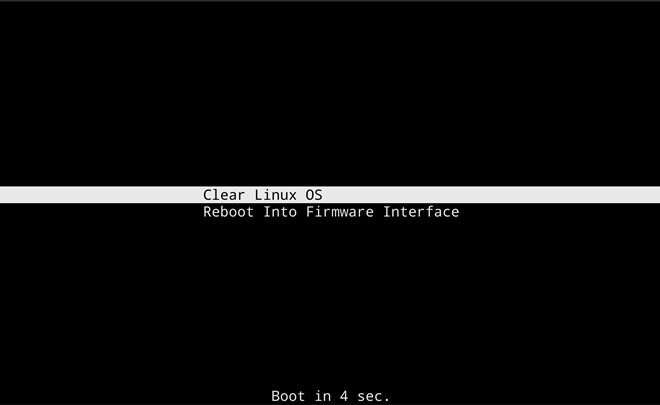
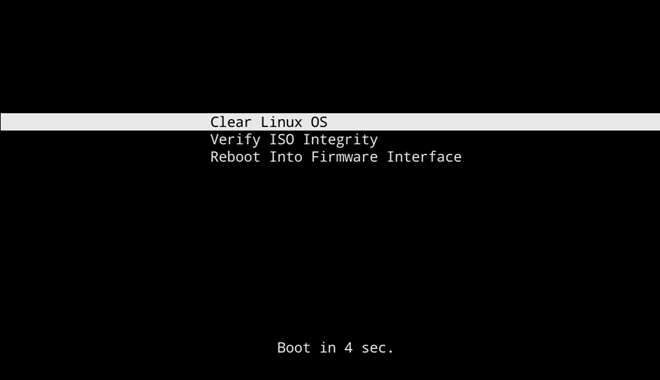
Align bare-metal-install-* docs with clr-installer verify-iso-integrity (#1186)
* Align bare-metal-install-* docs with clr-installer verify-iso-integrity

- New clr-installer feature, uses checksum to verify ISO image
- See also: https://github.com/clearlinux/clr-installer/pull/737
- Closes #1185
- Adds new section, Choose boot menu option.
- Figure 01 revised in bare-metal-desktop and -server
- Changes hierarchical levels of headers for consistency.
- Removes Software(optional) section from bare-metal-install-desktop
- Latter section is not relevant to installation process; no value
- Respond to reviewer feedback on wording.

* Wording revisions per reviewer feedback.

Changed region(s): [[0.0, 0.2895, 1.0, 0.55], [0.3939, 0.9553, 0.5758, 1.0], [0.4242, 0.8974, 0.6061, 0.9263]]

diff --git a/source/get-started/bare-metal-install-desktop.rst b/source/get-started/bare-metal-install-desktop.rst
@@ -37,6 +37,7 @@ Preliminary steps
 #. Follow your OS instructions to
    :ref:`create a bootable usb drive <bootable-usb>`.
 
+
 .. _install-on-target-start:
 
 Install from live image
@@ -61,28 +62,44 @@ these steps.
 
 .. _preliminary-steps-install-desktop-end:
 
-#. Select :guilabel:`Clear Linux OS` in the boot menu, shown in Figure 1.
+Choose boot menu option
+=======================
 
-   .. figure:: /_figures/bare-metal-install-desktop/bare-metal-install-desktop-01.png
-      :scale: 100%
-      :alt: Clear Linux OS in boot menu
+#. Choose one of the options shown in Figure 1.
 
-      Figure 1: Clear Linux OS in boot menu
+   a. Follow `Verify integrity of installer media (optional)`_.
+
+   #. Select :guilabel:`Clear Linux OS` in the boot menu.
+
+      .. figure:: /_figures/bare-metal-install-desktop/bare-metal-install-desktop-01.png
+         :scale: 100%
+         :alt: Clear Linux OS in boot menu
+
+         Figure 1: Clear Linux OS in boot menu
+
+      .. note::
+
+         If no action is taken, the live image starts by default.
 
 .. _install-on-target-end:
 
-Software (optional)
-===================
+Verify integrity of installer media (optional)
+==============================================
 
-Explore |CL| bundles and other software. Double-click the
-:guilabel:`Software` icon from the Activities menu, shown in Figure 2.
-Ensure a network connection exists before launching the Software application.
+Use :guilabel:`Verify ISO Integrity` to verify the checksum of 
+the image burned to the installer media. The checksum ensures that the ISO 
+is uncorrupted (see Figure 1). For every ISO generated, the 
+:guilabel:`clr-installer` implants checksums, which are verified during 
+early boot stage as part of :command:`initrd`. 
+ 
+#. Select :guilabel:`Verify ISO Integrity`. The media will be validated.
 
-.. note::
+#. If the check passes, it will boot into the live image. Continue in 
+   the next section.
 
-   While running the |CL| live desktop image, the Software application is
-   intended only for exploration. Do not attempt to install applications during
-   exploration.
+#. If the check fails, a failure message appears. 
+   
+   * Restart the process at `Preliminary Steps`_. 
 
 .. _install-clr-desktop-start:
 

diff --git a/source/get-started/bare-metal-install-server.rst b/source/get-started/bare-metal-install-server.rst
@@ -20,8 +20,8 @@ installation:
 * :ref:`system-requirements`
 * :ref:`compatibility-check`
 
-Download the latest |CL| live server image
-******************************************
+Preliminary steps
+*****************
 
 #. Visit our `Downloads`_ page.
 
@@ -62,7 +62,14 @@ Follow these steps to install |CL| on the target system:
 
 #. Reboot the target system.
 
-#. This action launches the |CL| installer boot menu, shown in Figure 1.
+Choose boot menu option
+=======================
+
+#. Choose one of the options shown in Figure 1.
+
+   a. Follow `Verify integrity of installer media (optional)`_.
+
+   #. Select :guilabel:`Clear Linux OS` in the boot menu.
 
    .. figure:: /_figures/bare-metal-install-server/bare-metal-install-server-01.png
       :scale: 100%
@@ -70,7 +77,27 @@ Follow these steps to install |CL| on the target system:
 
       Figure 1: Clear Linux OS Installer boot menu
 
-#. With :guilabel:`Clear Linux OS` highlighted, select :kbd:`Enter`.
+   .. note::
+
+      If no action is taken, the live image starts by default.
+
+Verify integrity of installer media (optional)
+==============================================
+
+Use :guilabel:`Verify ISO Integrity` to verify the checksum of 
+the image burned to the installer media. The checksum ensures that the ISO 
+is uncorrupted (see Figure 1). For every ISO generated, the 
+:guilabel:`clr-installer` implants checksums, which are verified during 
+early boot stage as part of :command:`initrd`. 
+ 
+#. Select :guilabel:`Verify ISO Integrity`. The media will be validated. 
+
+#. If the check passes, it will boot into the live image. Continue in 
+   the next section.
+
+#. If the check fails, a failure message appears. 
+   
+   * Restart the process at `Preliminary Steps`_. 
 
 .. _install-clr-server-start:
 
